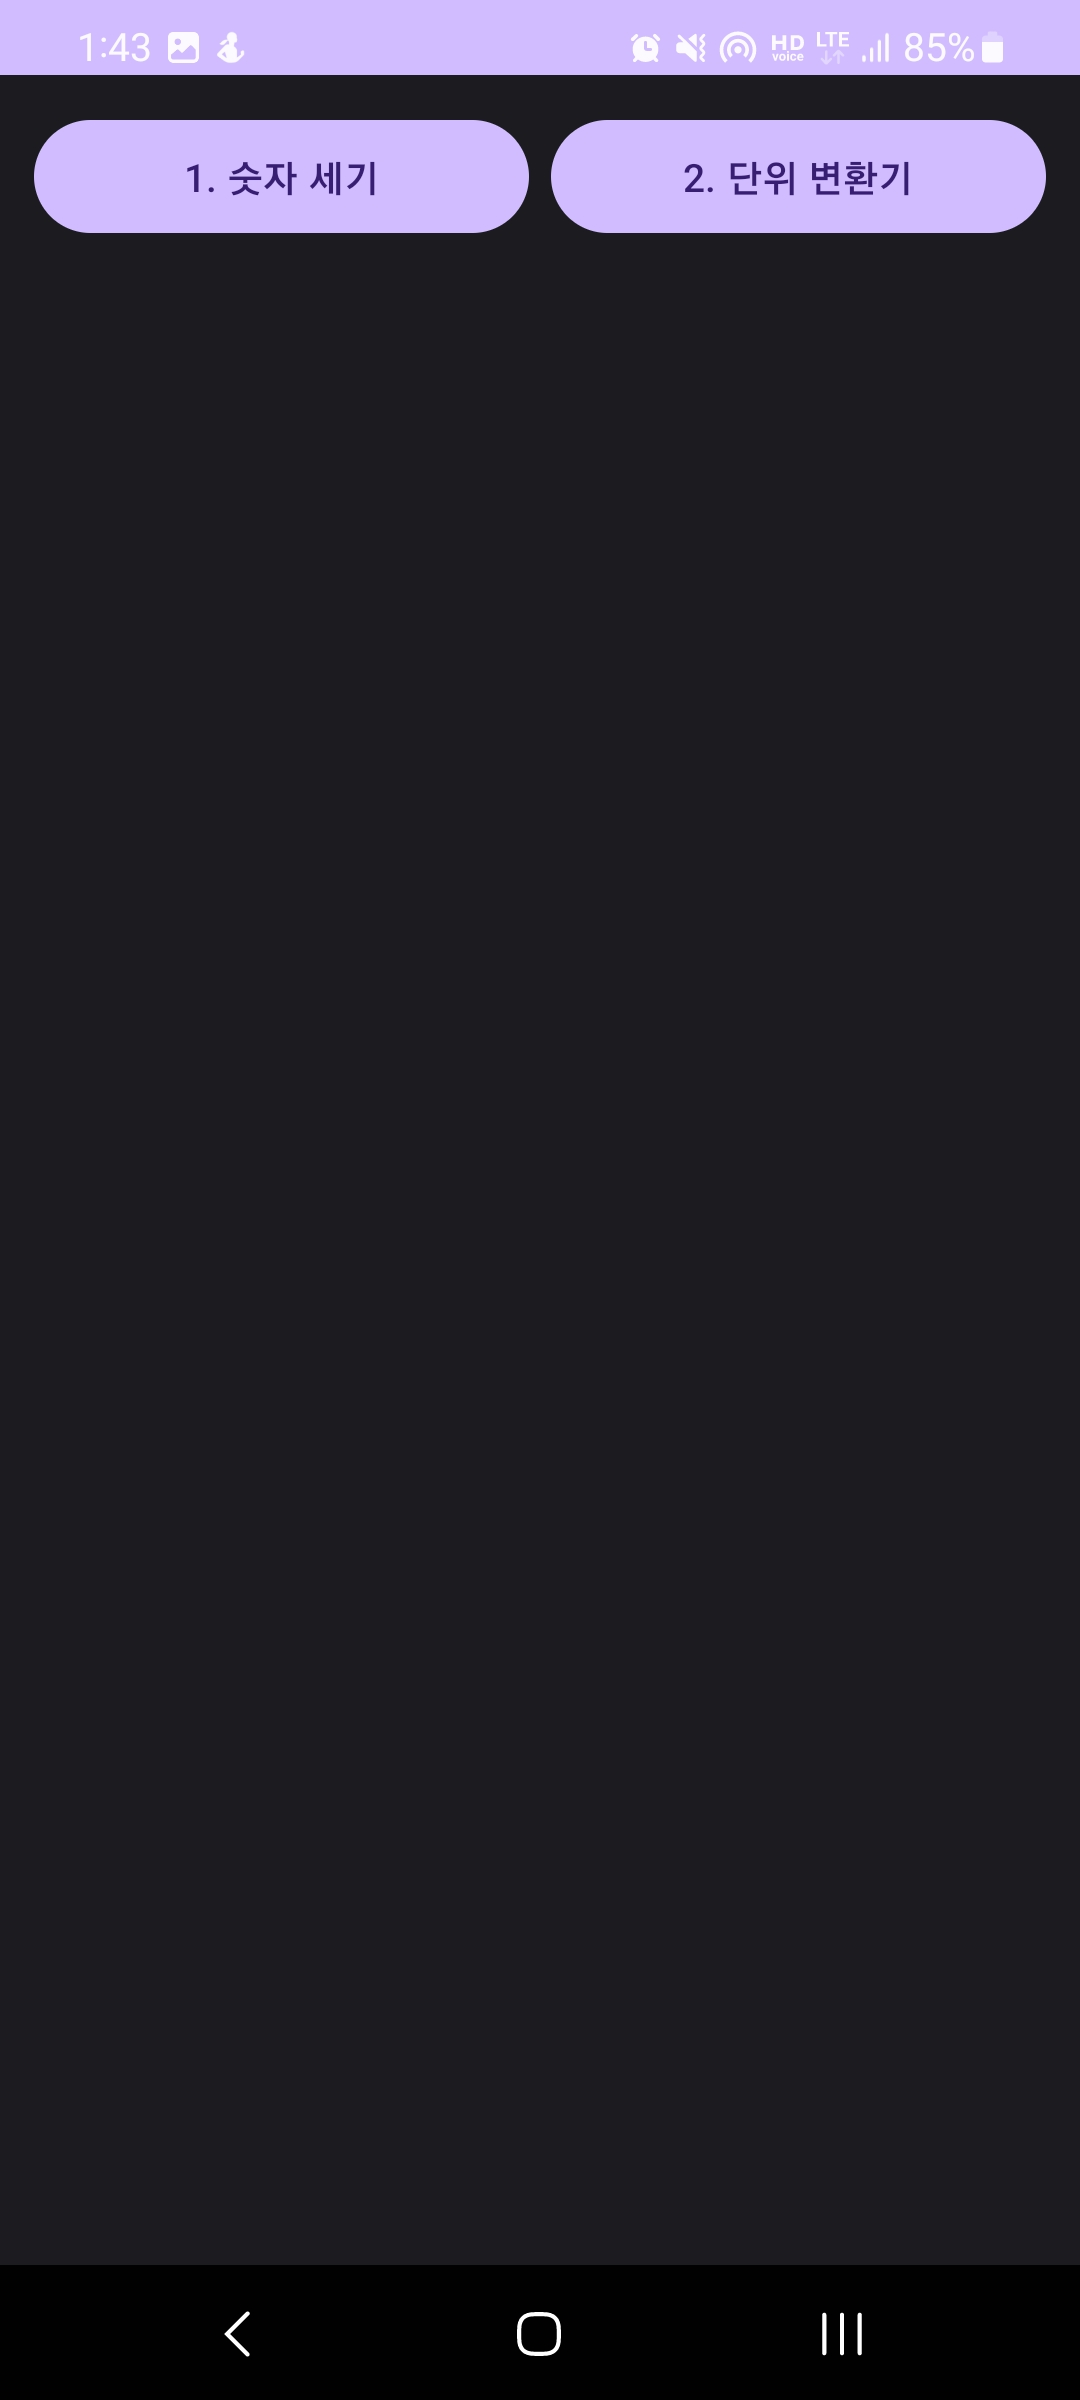
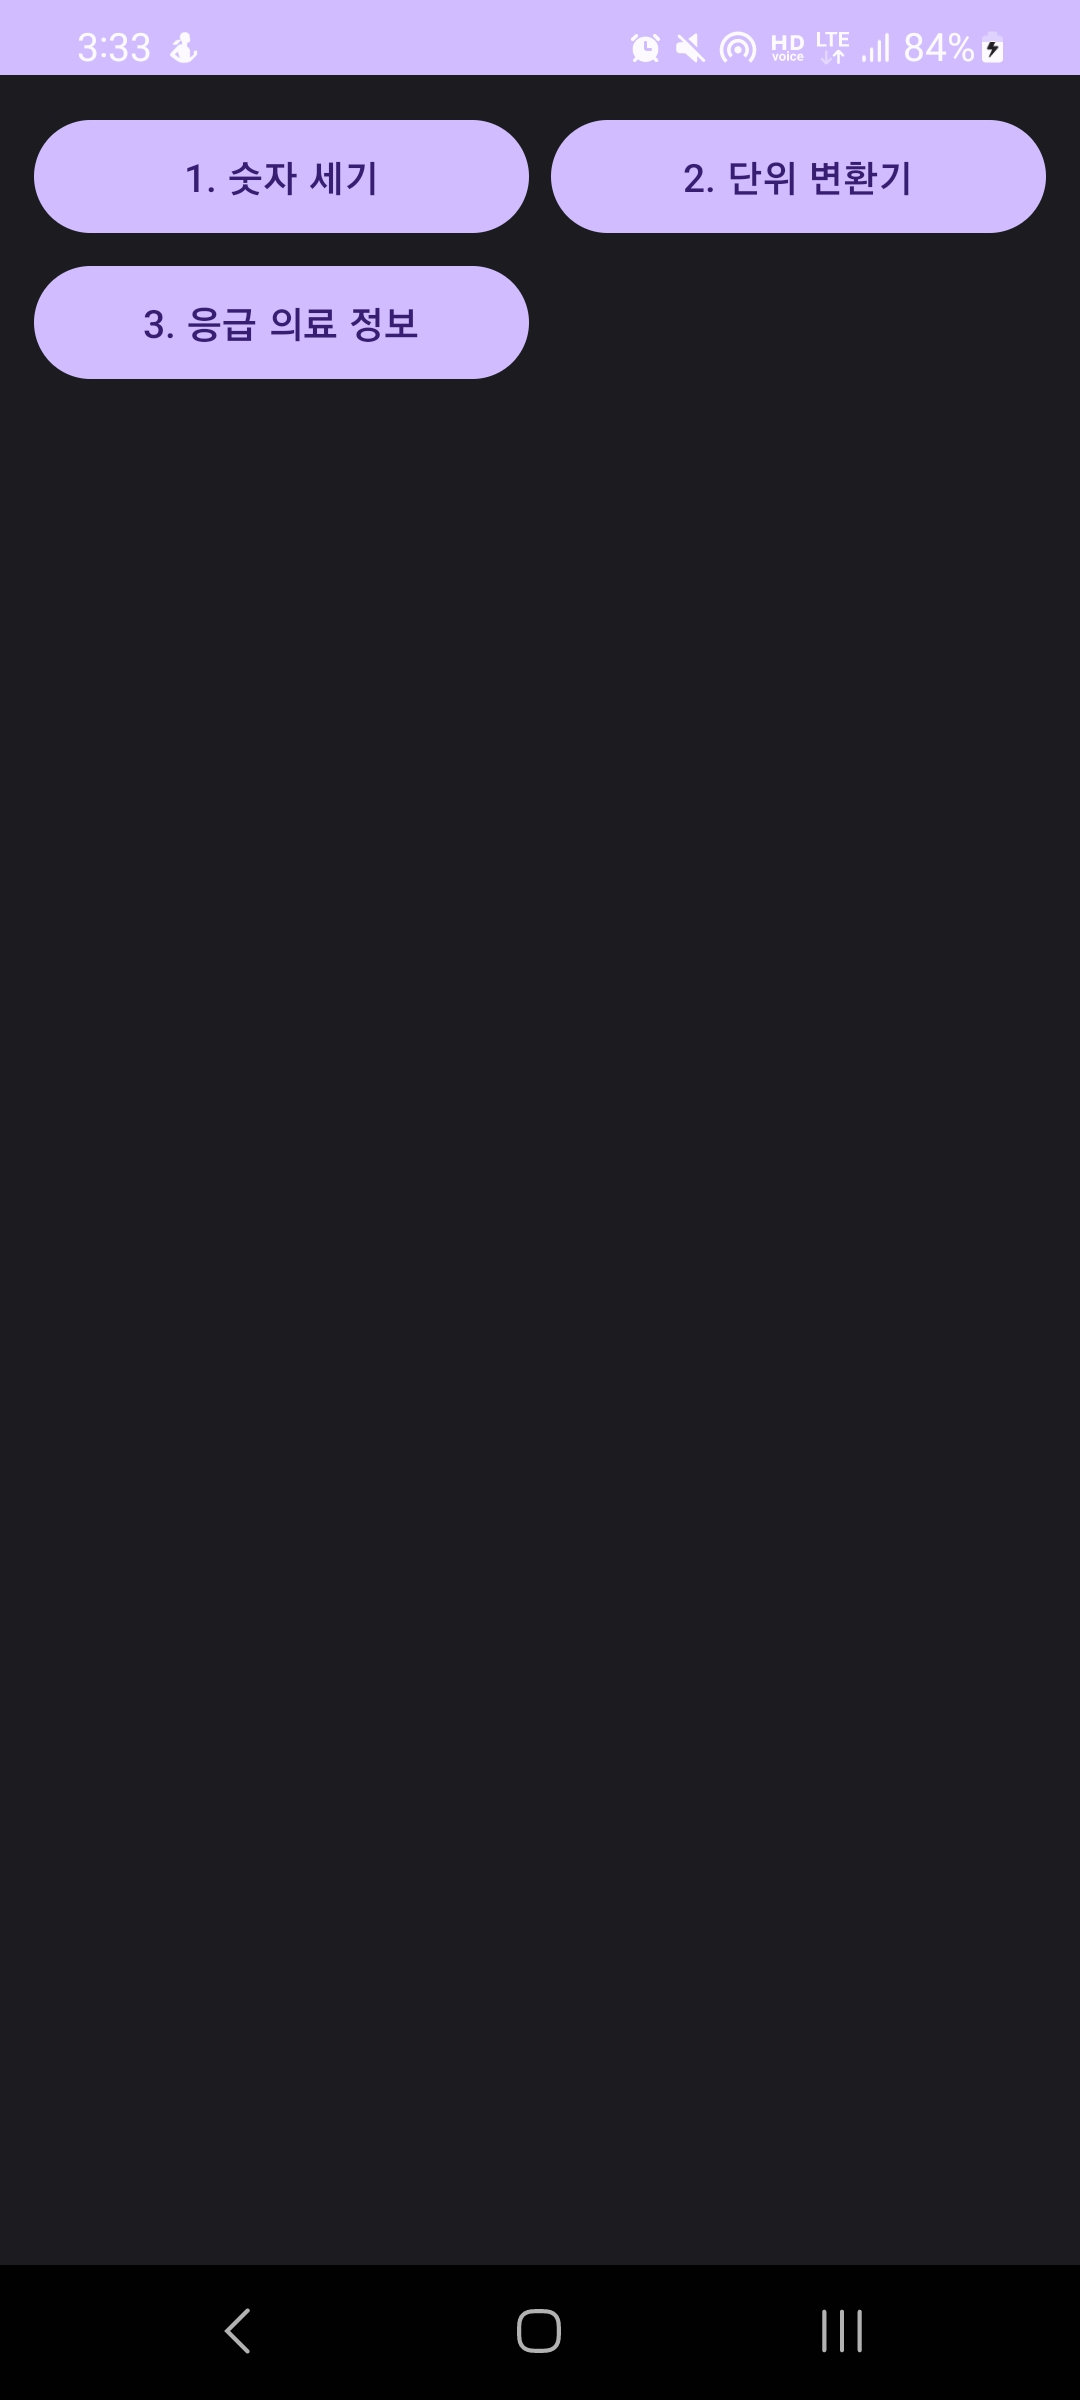
[ReadMe] - 응급 의료 정보 정보 추가

diff --git a/README.md b/README.md
@@ -15,3 +15,12 @@
 
 - 길이 입력에 따라 mm, cm, m, km 로 변환
 - UI 학습 : ConstraintLayout, ViewBinding, Spinner
+
+
+## 3. 응급 의료 정보
+<img src="https://github.com/cheonjoosung/FastCampus-Toy-Project/blob/master/image/no3-1.jpg?raw=true" width="180" height="400">
+<img src="https://github.com/cheonjoosung/FastCampus-Toy-Project/blob/master/image/no3-2.jpg?raw=true" width="180" height="400">
+
+- 응급 의료 정보를 입력 받아서 SharedPreference 를 활용한 데이터 관리
+- UI 학습 : ConstraintLayout, ViewBinding, Spinner, RadioButton
+
